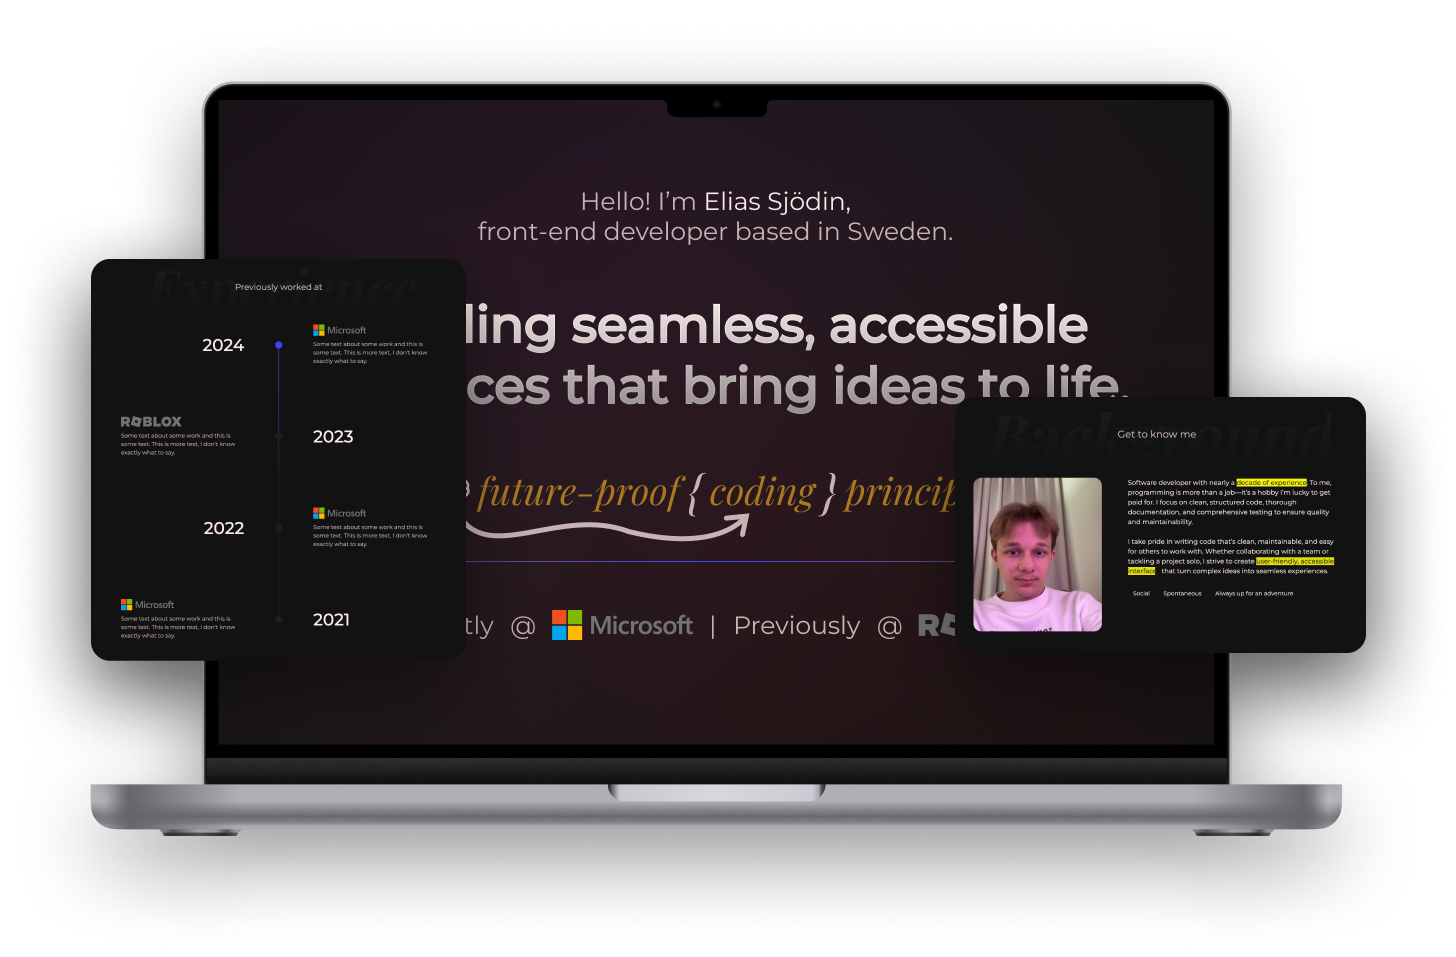
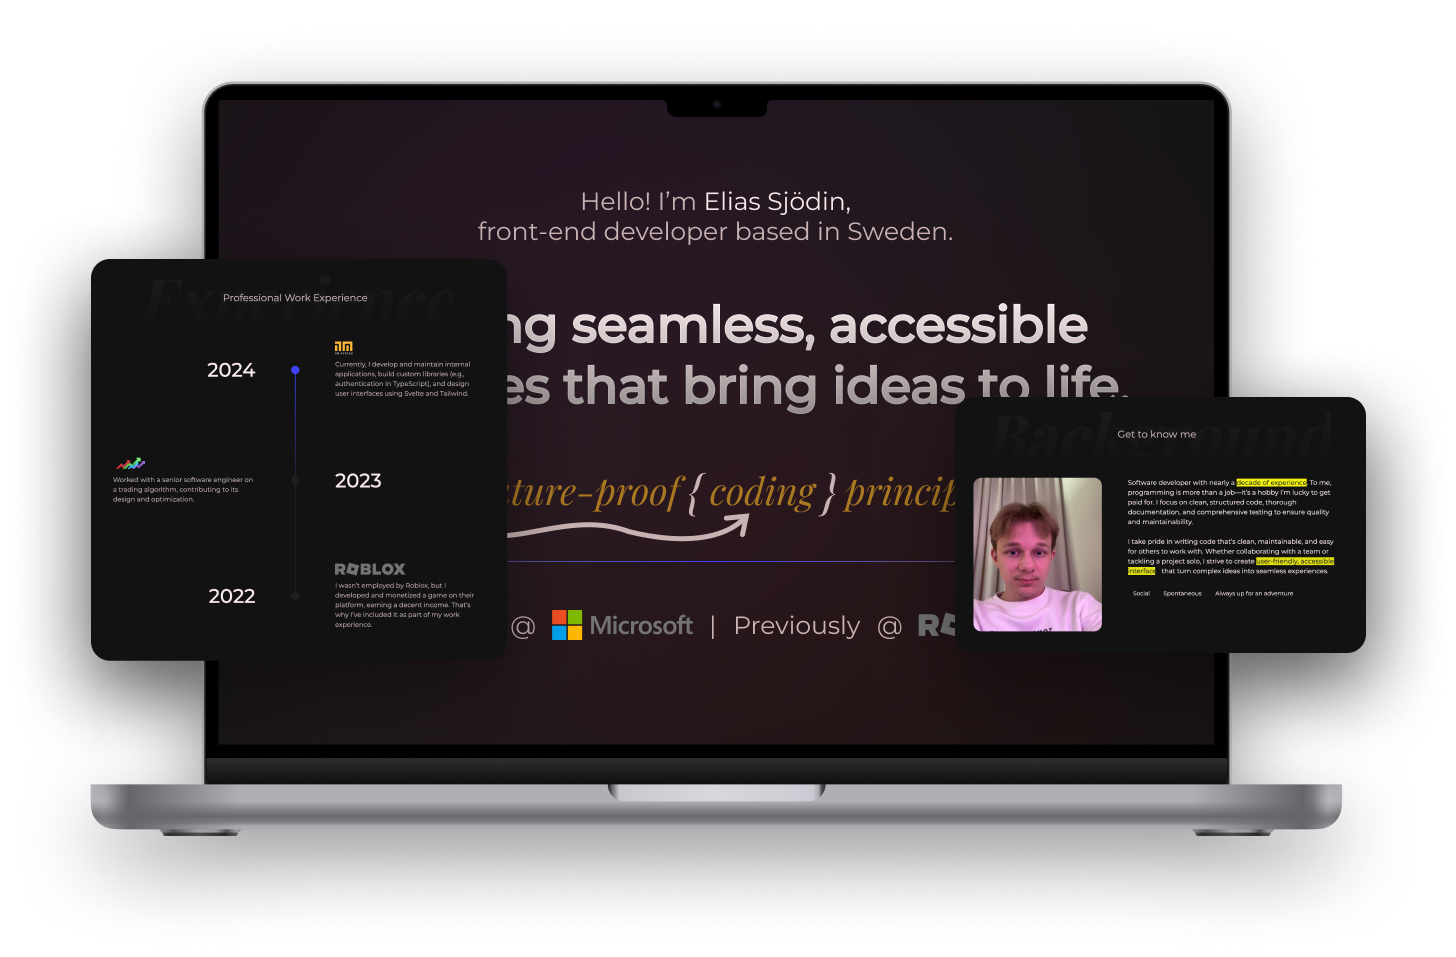
changed work experience section to real information

diff --git a/src/lib/components/sections/timeline-section.svelte b/src/lib/components/sections/timeline-section.svelte
@@ -15,28 +15,22 @@
 
   const jobs: Job[] = [
     {
-      image: "microsoft-logo.svg",
-      alt: "Microsoft Logo",
-      description: "Some text about some work and this is some text. This is more text, I don't know exactly what to say.",
+      image: "am-system.svg",
+      alt: "AM System Logo",
+      description: "Currently, I develop and maintain internal applications, build custom libraries (e.g., authentication in TypeScript), and design user interfaces using Svelte and Tailwind.",
       year: 2024,
+    },
+    {
+      image: "trading.webp",
+      alt: "Roblox Logo",
+      description: "Worked with a senior software engineer on a trading algorithm, contributing to its design and optimization.",
+      year: 2023,
     },
     {
       image: "roblox-logo.svg",
       alt: "Roblox Logo",
-      description: "Some text about some work and this is some text. This is more text, I don't know exactly what to say.",
-      year: 2023,
-    },
-    {
-      image: "microsoft-logo.svg",
-      alt: "Microsoft Logo",
-      description: "Some text about some work and this is some text. This is more text, I don't know exactly what to say.",
+      description: "I wasn’t employed by Roblox, but I developed and monetized a game on their platform, earning a decent income. That’s why I’ve included it as part of my work experience.",
       year: 2022,
-    },
-    {
-      image: "microsoft-logo.svg",
-      alt: "Microsoft Logo",
-      description: "Some text about some work and this is some text. This is more text, I don't know exactly what to say.",
-      year: 2021,
     },
   ];
 
@@ -97,7 +91,7 @@
       <div class="h-5 w-5 bg-dark-border rounded-full z-20" />
     {/if}
     {#if index < jobs.length - 1}
-      <div class="absolute top-full h-60 w-0.5 bg-dark-border" />
+      <div class="absolute top-full h-[264px] w-0.5 bg-dark-border" />
     {/if}
   </div>
 {/snippet}
@@ -117,12 +111,12 @@
       Experience
     </p>
     <p class="text-lg md:text-2xl text-nowrap text-subtext absolute top-1/2 left-1/2 transform -translate-x-1/2 -translate-y-1/2">
-      Previously worked at
+      Professional Work Experience
     </p>
   </div>
 
   <div class="flex flex-col gap-y-24 md:gap-y-36 items-center max-w-4xl relative">
-    <div class="timeline-gradient-overlay absolute top-[50px] left-1/2 transform -translate-x-1/2 w-0.5 h-[calc(100%-80px)] bg-gradient-to-b from-blue to-transparent scale-y-0 z-10 hidden md:block" />
+    <div class="timeline-gradient-overlay absolute top-[60px] left-1/2 transform -translate-x-1/2 w-0.5 h-[calc(100%-115px)] bg-gradient-to-b from-blue to-transparent scale-y-0 z-10 hidden md:block" />
 
     {#each jobs as job, index}
       <div class="flex items-center gap-x-6 md:justify-between px-6 md:px-0">

diff --git a/src/lib/components/sections/projects-section.svelte b/src/lib/components/sections/projects-section.svelte
@@ -37,6 +37,13 @@
       image: "project-image.png",
     },
     {
+      title: "Personal Portfolio",
+      description: "Portfolio showcasing previous projects, and work experience.",
+      type: "Side Project",
+      tags: ["TypeScript", "Svelte", "Vercel"],
+      image: "personal-portfolio.png",
+    },
+    {
       title: "Little",
       description: "A custom programming language made in C.",
       type: "Side Project",
@@ -56,13 +63,6 @@
       type: "Side Project",
       tags: ["Lua", "Roblox Studio"],
       image: "robbery-story.png",
-    },
-    {
-      title: "Personal Portfolio",
-      description: "Portfolio showcasing previous projects, and work experience.",
-      type: "Side Project",
-      tags: ["TypeScript", "Svelte", "Vercel"],
-      image: "personal-portfolio.png",
     },
   ];
 

diff --git a/src/lib/components/sections/hero-section.svelte b/src/lib/components/sections/hero-section.svelte
@@ -77,7 +77,7 @@
     <div class="flex gap-x-3 md:gap-x-4 items-center">
       <p class="text-subtext text-xs md:text-xl">Currently</p>
       <p class="text-subtext text-xs md:text-xl">@</p>
-      <img src="/logos/microsoft-logo.svg" alt="Microsoft Logo" class="h-4 md:h-6" />
+      <img src="/logos/am-system.svg" alt="Microsoft Logo" class="h-4 md:h-6" />
       <p class="text-subtext text-xs md:text-xl">|</p>
       <p class="text-subtext text-xs md:text-xl">Previously</p>
       <p class="text-subtext text-xs md:text-xl">@</p>
